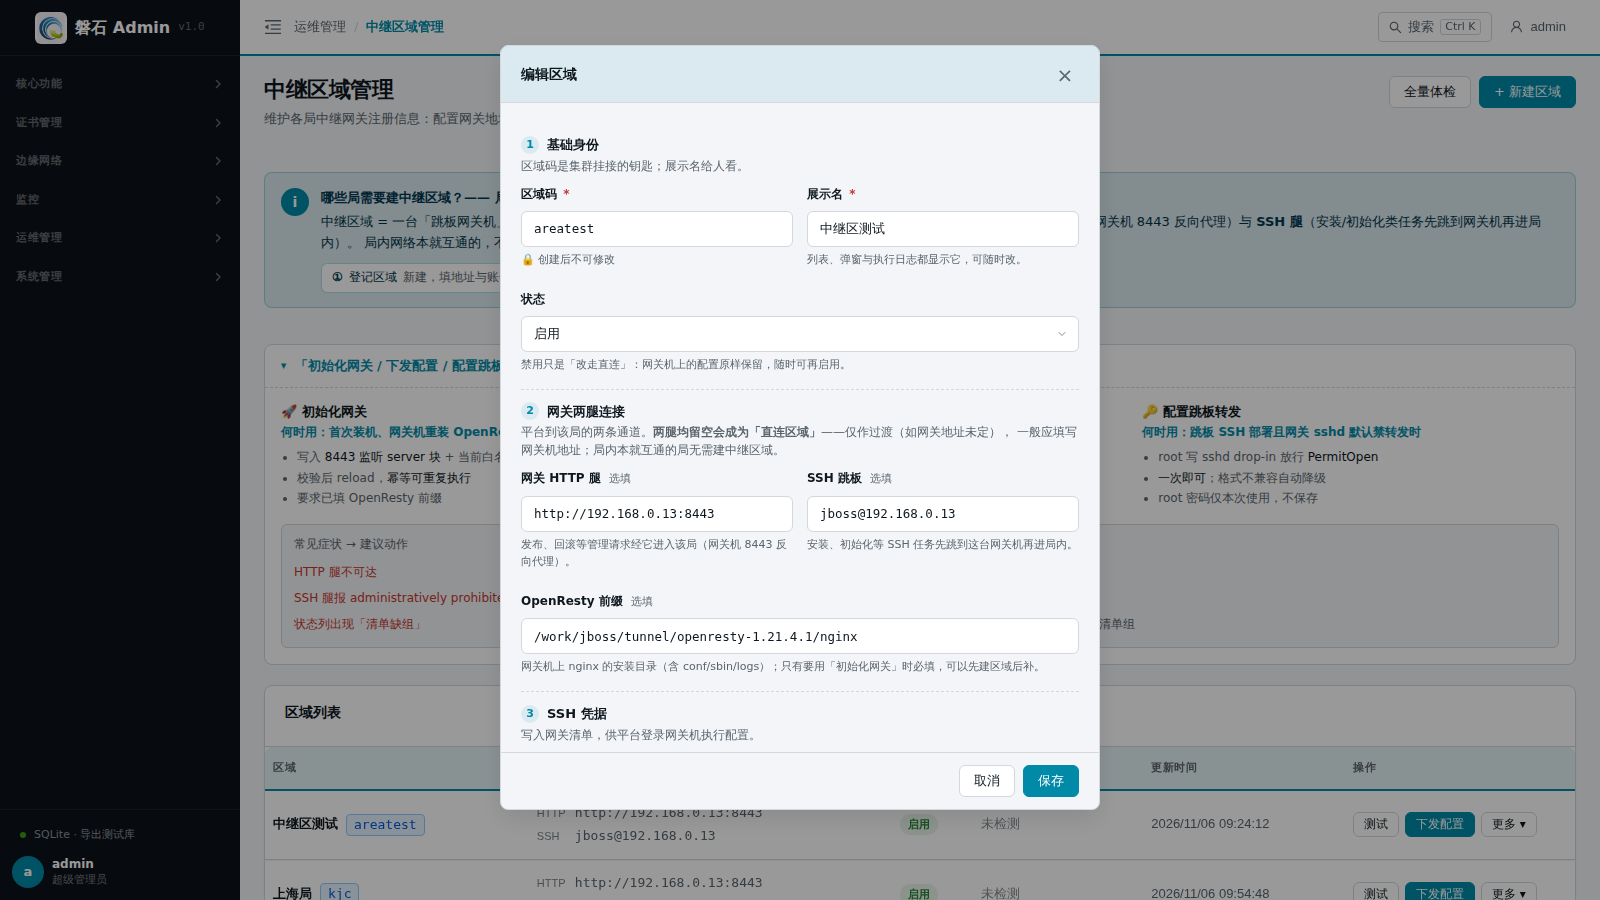
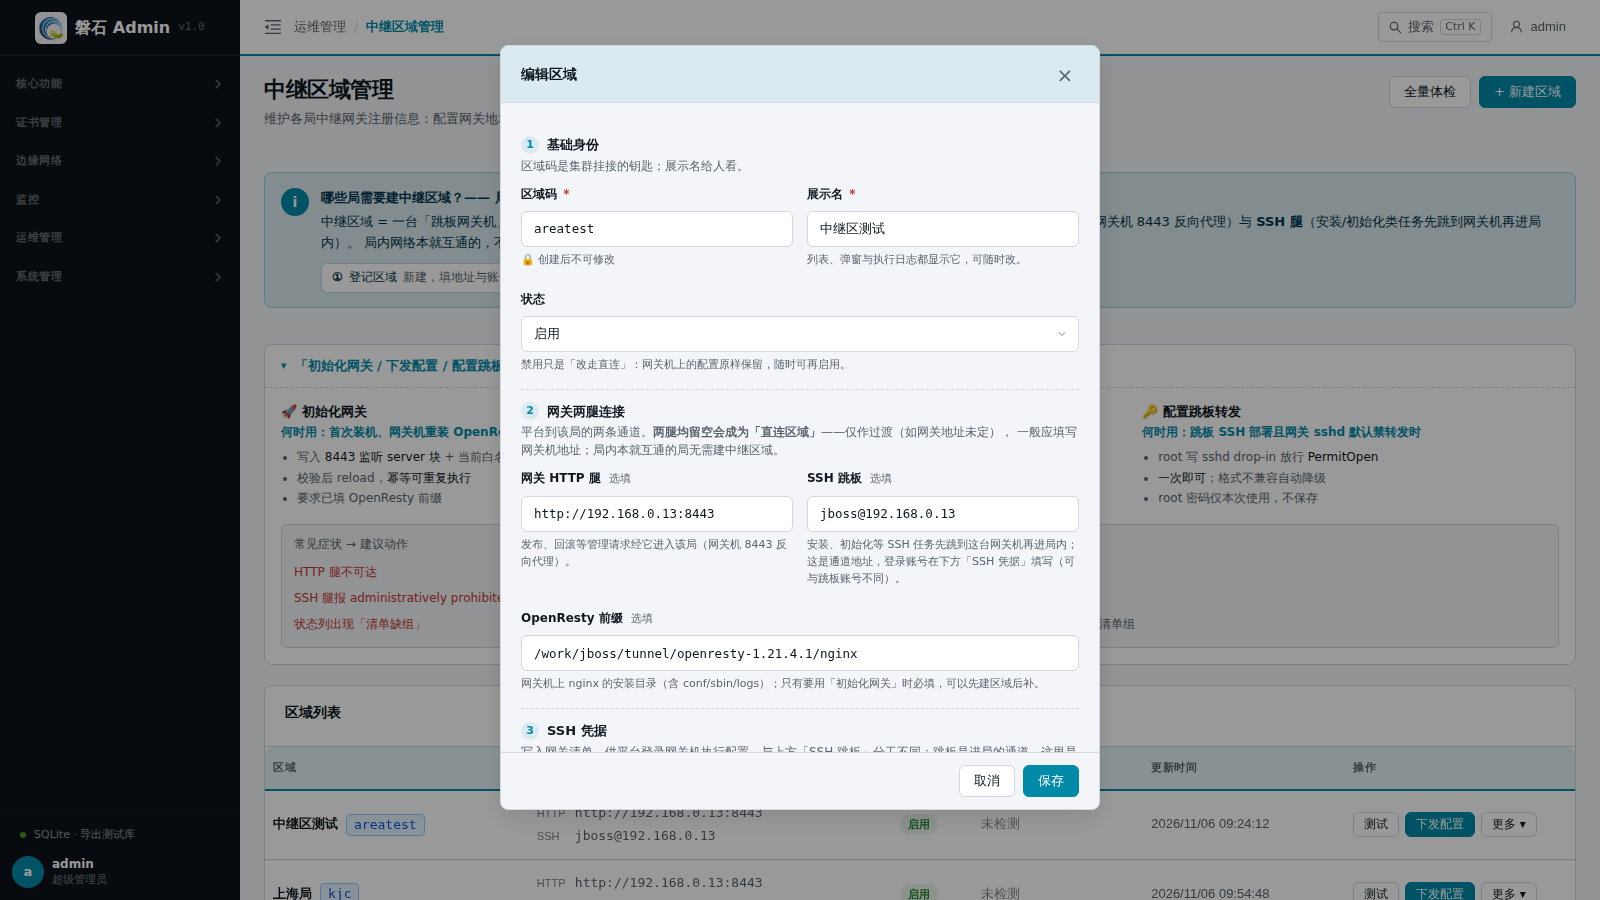
style(relay): 高级参数对齐示例页容器形态（用户反馈：字段应有容器）
- 恢复两字段整行（span-2）——示例页本就如此，上一轮改并排属误读
- 字段包进 .adv-body 容器（padding 12px + 顶部虚线分隔），不再贴卡片边
- summary 改示例页灰色小字形态（muted 12px + adv-tip 弱化括号注）
- 41 passed / tsc 0；32-04 截图刷新；dev 实页 element 截图核对容器效果

diff --git a/frontend/src/views/RelayGateways.vue b/frontend/src/views/RelayGateways.vue
@@ -383,28 +383,30 @@
             </div>
           </div>
 
-          <details class="install-guide advanced-section">
-            <summary>高级参数（一般不用改）</summary>
-            <div class="form-grid">
-              <div class="form-group label-top">
-                <label class="form-label">Python 解释器 <span class="optional">选填</span></label>
-                <input
-                  type="text"
-                  class="form-input mono-input"
-                  v-model="form.ansible_python_interpreter"
-                  placeholder="如 /work/jboss/anaconda3/bin/python3"
-                />
-                <span class="form-hint">仅当网关机系统默认 Python 低于 3.8（老机器常见）时填写。</span>
-              </div>
-              <div class="form-group label-top">
-                <label class="form-label">SSH 公共参数 <span class="optional">选填</span></label>
-                <input
-                  type="text"
-                  class="form-input mono-input"
-                  v-model="form.ssh_common_args"
-                  placeholder="-o StrictHostKeyChecking=no -o UserKnownHostsFile=/dev/null"
-                />
-                <span class="form-hint">追加给每条 SSH 连接的参数；默认已跳过指纹确认，一般无需修改。</span>
+          <details class="advanced-section">
+            <summary>高级参数 <span class="adv-tip">（一般不用改）</span></summary>
+            <div class="adv-body">
+              <div class="form-grid">
+                <div class="form-group label-top span-2">
+                  <label class="form-label">Python 解释器 <span class="optional">选填</span></label>
+                  <input
+                    type="text"
+                    class="form-input mono-input"
+                    v-model="form.ansible_python_interpreter"
+                    placeholder="如 /work/jboss/anaconda3/bin/python3"
+                  />
+                  <span class="form-hint">仅当网关机系统默认 Python 低于 3.8（老机器常见）时填写。</span>
+                </div>
+                <div class="form-group label-top span-2">
+                  <label class="form-label">SSH 公共参数 <span class="optional">选填</span></label>
+                  <input
+                    type="text"
+                    class="form-input mono-input"
+                    v-model="form.ssh_common_args"
+                    placeholder="-o StrictHostKeyChecking=no -o UserKnownHostsFile=/dev/null"
+                  />
+                  <span class="form-hint">追加给每条 SSH 连接的参数；默认已跳过指纹确认，一般无需修改。</span>
+                </div>
               </div>
             </div>
           </details>
@@ -1856,22 +1858,21 @@ onUnmounted(() => {
   padding: 8px 0;
 }
 .advanced-section {
-  margin-top: 14px;
-  background: var(--surface);
   border: 1px solid var(--border);
   border-radius: 8px;
+  margin-top: 12px;
   overflow: hidden;
 }
 .advanced-section > summary {
   list-style: none;
   cursor: pointer;
-  padding: 11px 16px;
-  font-size: 13px;
+  padding: 9px 12px;
+  font-size: 12px;
   font-weight: 600;
-  color: var(--accent);
+  color: var(--muted);
   display: flex;
   align-items: center;
-  gap: 8px;
+  gap: 6px;
   user-select: none;
 }
 .advanced-section > summary::-webkit-details-marker {
@@ -1880,16 +1881,20 @@ onUnmounted(() => {
 .advanced-section > summary::before {
   content: '▸';
   transition: transform 0.15s;
-  font-size: 11px;
+  font-size: 10px;
 }
 .advanced-section[open] > summary::before {
   transform: rotate(90deg);
 }
-.advanced-section .form-group:first-of-type {
-  margin-top: 4px;
+.advanced-section > summary .adv-tip {
+  font-weight: 400;
+  font-size: 11px;
+  color: var(--muted);
+  opacity: 0.85;
 }
-.advanced-section .form-group:last-of-type {
-  padding-bottom: 8px;
+.advanced-section .adv-body {
+  padding: 2px 12px 12px;
+  border-top: 1px dashed var(--border);
 }
 
 /* 表头强化（antd 深度选择） */
